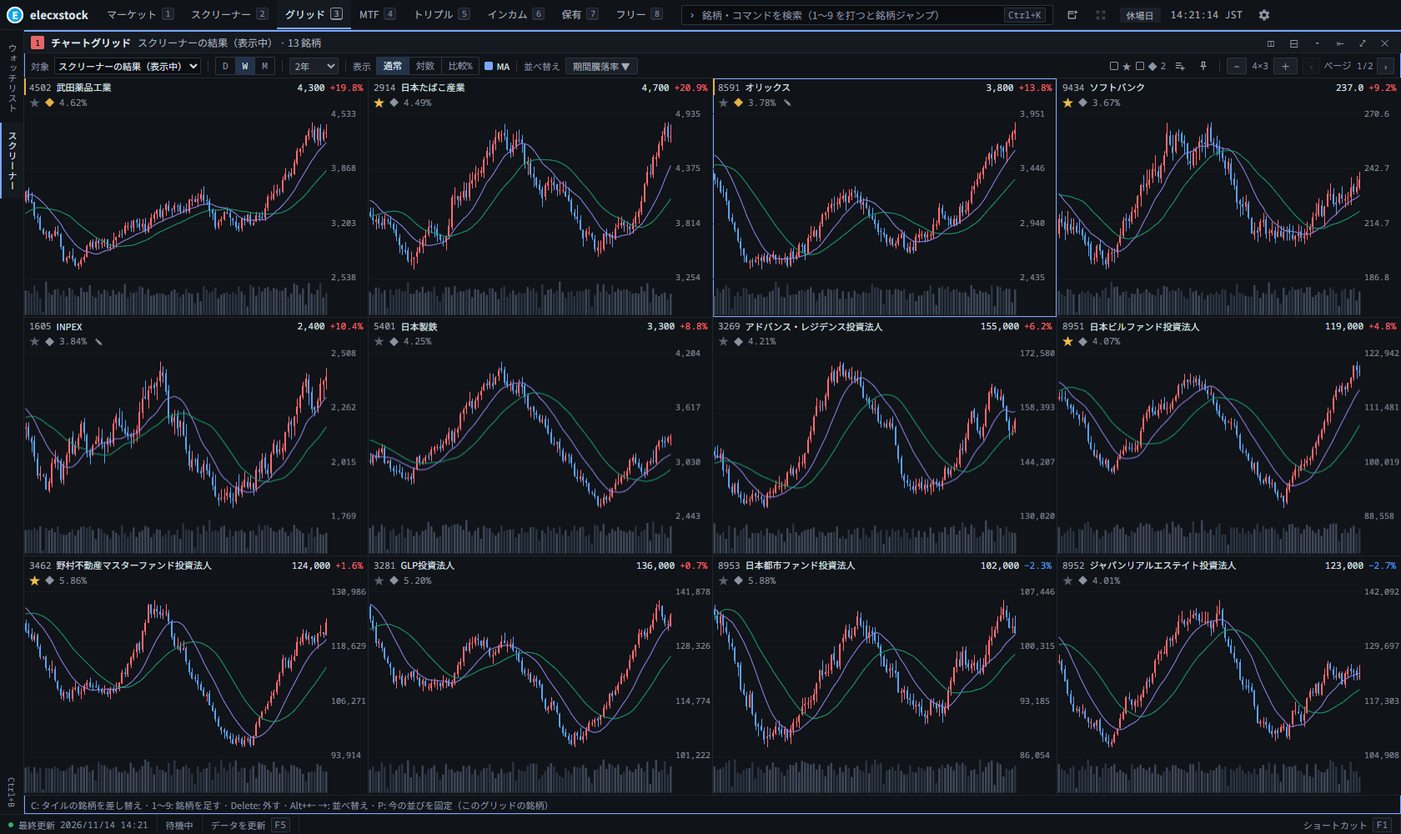
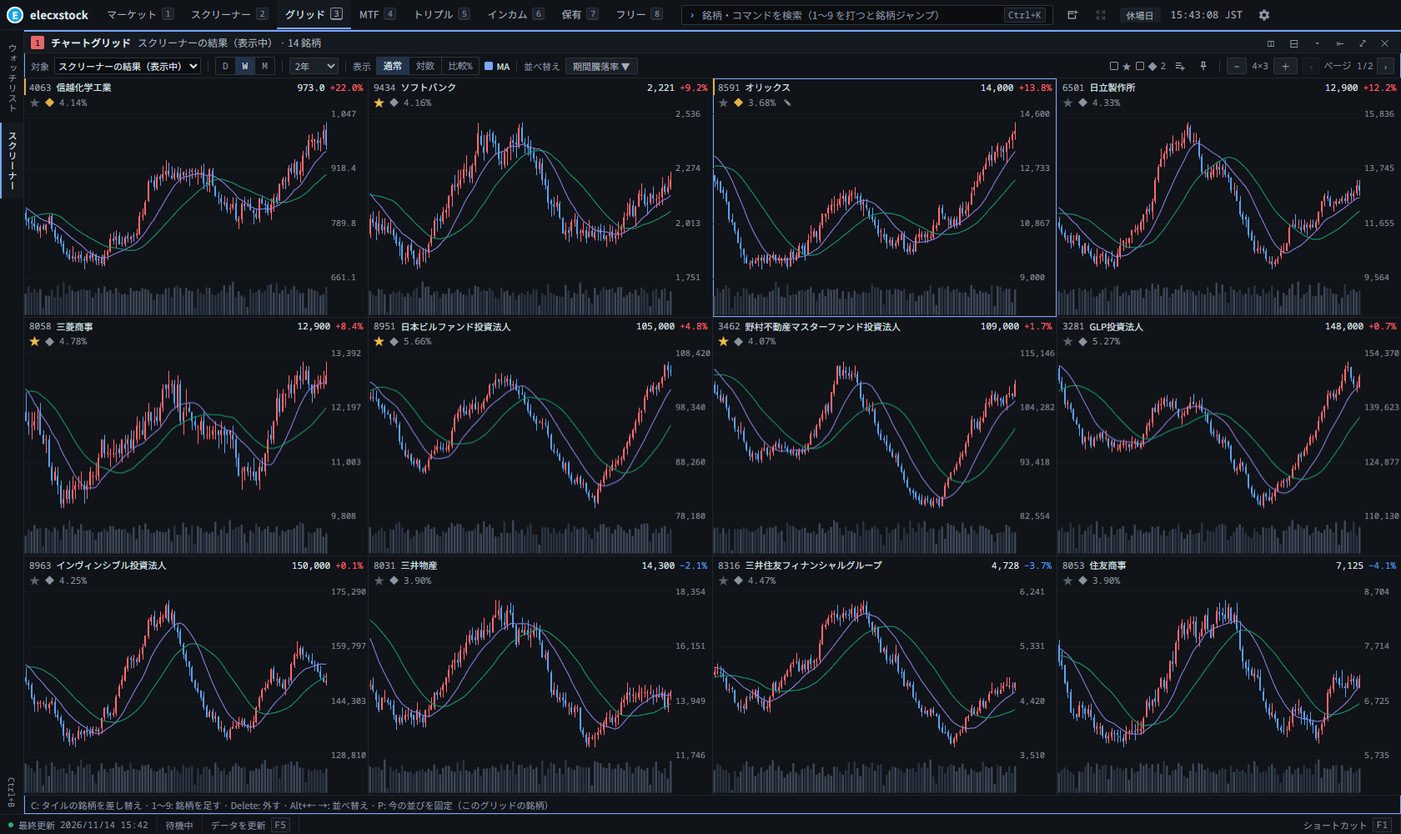
test(stub): make all demo and test values unrelated to real market data / テストとデモの値をすべて実際の市場データと無関係にする
Base prices, yields and record months in src/core/providers/stub.ts and docs/mock/mock-data.js are now random values unrelated to reality; the stub splits and the index level are fictitious too. / src/core/providers/stub.ts と docs/mock/mock-data.js の基準の株価・利回り・権利月を、実際と無関係な乱数の値にした。スタブの分割と指数の水準も架空にした。
Unit tests that referred to the old split dates and the real-looking dividend fixture now use fictitious dates and amounts. / 以前の分割の日付や実際らしい配当を使っていた単体テストを、架空の日付と金額にした。
Screenshots regenerated; README states that the values are fictitious and CLAUDE.md records the rule. / スクリーンショットを撮り直し、README に値が架空であることを書き、CLAUDE.md に決まりとして残した。

diff --git a/src/core/providers/stub.ts b/src/core/providers/stub.ts
@@ -1,5 +1,6 @@
 // テスト・スクリーンショット用のスタブ（ELECXSTOCK_PROVIDER=stub）。外部に一切接続しない（§11）。
-// 銘柄名は実在だが、価格・配当はすべて乱数の架空の値。
+// 銘柄名・コードは実在だが、値はすべて架空（実際のデータは使わない。権利関係のため）: 株価・出来高・配当は乱数で作り、
+// 基準の株価・利回り・権利月・分割の日付と比率も乱数で決めた、実際とは無関係な値。
 import type { Dividend, InstrumentKind, Market, Split } from '@shared/types'
 import { addDays, isTradingDay, jstNow, lastClosedSession } from '../calendar'
 import type { HistoryResult, Provider, ProviderQuote, RawBar, UniverseRow } from './types'
@@ -17,28 +18,28 @@ type Seed = [
   months: number[],
 ]
 const U: Seed[] = [
-  ['7203', 'トヨタ自動車', 'TOYOTA MOTOR CORPORATION', 'P', 'stock', '輸送用機器', 'Transportation Equipment', 3400, 2.9, [3, 9]],
-  ['8058', '三菱商事', 'MITSUBISHI CORPORATION', 'P', 'stock', '卸売業', 'Wholesale Trade', 5300, 2.3, [3, 9]],
-  ['8306', '三菱UFJフィナンシャル・グループ', 'Mitsubishi UFJ Financial Group,Inc.', 'P', 'stock', '銀行業', 'Banks', 3500, 2.7, [3, 9]],
-  ['8316', '三井住友フィナンシャルグループ', 'Sumitomo Mitsui Financial Group,Inc.', 'P', 'stock', '銀行業', 'Banks', 4300, 3.1, [3, 9]],
-  ['8411', 'みずほフィナンシャルグループ', 'Mizuho Financial Group,Inc.', 'P', 'stock', '銀行業', 'Banks', 5200, 2.9, [3, 9]],
-  ['9432', '日本電信電話', 'NTT,Inc.', 'P', 'stock', '情報・通信業', 'Information & Communication', 158, 3.4, [3, 9]],
-  ['9433', 'KDDI', 'KDDI CORPORATION', 'P', 'stock', '情報・通信業', 'Information & Communication', 2600, 3.0, [3, 9]],
-  ['9434', 'ソフトバンク', 'SoftBank Corp.', 'P', 'stock', '情報・通信業', 'Information & Communication', 237, 3.7, [3, 9]],
-  ['2914', '日本たばこ産業', 'JAPAN TOBACCO INC.', 'P', 'stock', '食料品', 'Foods', 4700, 4.6, [6, 12]],
-  ['8001', '伊藤忠商事', 'ITOCHU Corporation', 'P', 'stock', '卸売業', 'Wholesale Trade', 8900, 2.2, [3, 9]],
-  ['8031', '三井物産', 'MITSUI & CO.,LTD.', 'P', 'stock', '卸売業', 'Wholesale Trade', 3600, 3.0, [3, 9]],
-  ['8053', '住友商事', 'SUMITOMO CORPORATION', 'P', 'stock', '卸売業', 'Wholesale Trade', 4100, 3.3, [3, 9]],
-  ['4502', '武田薬品工業', 'Takeda Pharmaceutical Company Limited', 'P', 'stock', '医薬品', 'Pharmaceutical', 4300, 4.6, [3, 9]],
-  ['8766', '東京海上ホールディングス', 'Tokio Marine Holdings,Inc.', 'P', 'stock', '保険業', 'Insurance', 5900, 2.6, [3, 9]],
-  ['5401', '日本製鉄', 'NIPPON STEEL CORPORATION', 'P', 'stock', '鉄鋼', 'Iron & Steel', 3300, 4.2, [3, 9]],
-  ['1605', 'INPEX', 'INPEX CORPORATION', 'P', 'stock', '鉱業', 'Mining', 2400, 4.0, [6, 12]],
-  ['6501', '日立製作所', 'Hitachi,Ltd.', 'P', 'stock', '電気機器', 'Electric Appliances', 4500, 1.0, [3, 9]],
-  ['6758', 'ソニーグループ', 'Sony Group Corporation', 'P', 'stock', '電気機器', 'Electric Appliances', 3900, 0.6, [3, 9]],
-  ['7974', '任天堂', 'Nintendo Co.,Ltd.', 'P', 'stock', 'その他製品', 'Other Products', 12500, 1.2, [3, 9]],
-  ['4063', '信越化学工業', 'Shin-Etsu Chemical Co.,Ltd.', 'P', 'stock', '化学', 'Chemicals', 5200, 2.0, [3, 9]],
-  ['8591', 'オリックス', 'ORIX CORPORATION', 'P', 'stock', 'その他金融業', 'Other Financing Business', 3800, 3.8, [3, 9]],
-  ['5020', 'ENEOSホールディングス', 'ENEOS Holdings,Inc.', 'P', 'stock', '石油・石炭製品', 'Oil & Coal Products', 1050, 2.1, [3, 9]],
+  ['7203', 'トヨタ自動車', 'TOYOTA MOTOR CORPORATION', 'P', 'stock', '輸送用機器', 'Transportation Equipment', 18616, 2.7, [3, 9]],
+  ['8058', '三菱商事', 'MITSUBISHI CORPORATION', 'P', 'stock', '卸売業', 'Wholesale Trade', 12872, 4.9, [3, 9]],
+  ['8306', '三菱UFJフィナンシャル・グループ', 'Mitsubishi UFJ Financial Group,Inc.', 'P', 'stock', '銀行業', 'Banks', 19707, 2.2, [3, 9]],
+  ['8316', '三井住友フィナンシャルグループ', 'Sumitomo Mitsui Financial Group,Inc.', 'P', 'stock', '銀行業', 'Banks', 4728, 4.5, [2, 8]],
+  ['8411', 'みずほフィナンシャルグループ', 'Mizuho Financial Group,Inc.', 'P', 'stock', '銀行業', 'Banks', 704, 3.3, [4, 10]],
+  ['9432', '日本電信電話', 'NTT,Inc.', 'P', 'stock', '情報・通信業', 'Information & Communication', 4746, 3.2, [2, 8]],
+  ['9433', 'KDDI', 'KDDI CORPORATION', 'P', 'stock', '情報・通信業', 'Information & Communication', 5312, 3.5, [5, 11]],
+  ['9434', 'ソフトバンク', 'SoftBank Corp.', 'P', 'stock', '情報・通信業', 'Information & Communication', 2221, 4.2, [3, 9]],
+  ['2914', '日本たばこ産業', 'JAPAN TOBACCO INC.', 'P', 'stock', '食料品', 'Foods', 16821, 2.0, [2, 8]],
+  ['8001', '伊藤忠商事', 'ITOCHU Corporation', 'P', 'stock', '卸売業', 'Wholesale Trade', 3895, 4.0, [5, 11]],
+  ['8031', '三井物産', 'MITSUI & CO.,LTD.', 'P', 'stock', '卸売業', 'Wholesale Trade', 14268, 4.1, [6, 12]],
+  ['8053', '住友商事', 'SUMITOMO CORPORATION', 'P', 'stock', '卸売業', 'Wholesale Trade', 7125, 3.9, [3, 9]],
+  ['4502', '武田薬品工業', 'Takeda Pharmaceutical Company Limited', 'P', 'stock', '医薬品', 'Pharmaceutical', 18279, 2.5, [2, 8]],
+  ['8766', '東京海上ホールディングス', 'Tokio Marine Holdings,Inc.', 'P', 'stock', '保険業', 'Insurance', 7755, 1.3, [3, 9]],
+  ['5401', '日本製鉄', 'NIPPON STEEL CORPORATION', 'P', 'stock', '鉄鋼', 'Iron & Steel', 8416, 2.9, [3, 9]],
+  ['1605', 'INPEX', 'INPEX CORPORATION', 'P', 'stock', '鉱業', 'Mining', 476, 2.3, [5, 11]],
+  ['6501', '日立製作所', 'Hitachi,Ltd.', 'P', 'stock', '電気機器', 'Electric Appliances', 12860, 4.4, [3, 9]],
+  ['6758', 'ソニーグループ', 'Sony Group Corporation', 'P', 'stock', '電気機器', 'Electric Appliances', 6028, 2.5, [1, 7]],
+  ['7974', '任天堂', 'Nintendo Co.,Ltd.', 'P', 'stock', 'その他製品', 'Other Products', 10754, 1.9, [3, 9]],
+  ['4063', '信越化学工業', 'Shin-Etsu Chemical Co.,Ltd.', 'P', 'stock', '化学', 'Chemicals', 973, 4.1, [3, 9]],
+  ['8591', 'オリックス', 'ORIX CORPORATION', 'P', 'stock', 'その他金融業', 'Other Financing Business', 14009, 3.7, [1, 7]],
+  ['5020', 'ENEOSホールディングス', 'ENEOS Holdings,Inc.', 'P', 'stock', '石油・石炭製品', 'Oil & Coal Products', 3984, 3.6, [6, 12]],
   [
     '94345',
     'ソフトバンク第1回社債型種類株式',
@@ -47,20 +48,20 @@ const U: Seed[] = [
     'pref',
     '情報・通信業',
     'Information & Communication',
-    3790,
-    2.6,
-    [3, 9],
+    4442,
+    2.8,
+    [2, 8],
   ],
-  ['130A', 'Veritas In Silico', 'Veritas In Silico Inc.', 'G', 'stock', '医薬品', 'Pharmaceutical', 255, 0, []],
-  ['8951', '日本ビルファンド投資法人', 'Nippon Building Fund Inc.', 'R', 'reit', '', '', 119000, 4.2, [6, 12]],
-  ['8952', 'ジャパンリアルエステイト投資法人', 'Japan Real Estate Investment Corporation', 'R', 'reit', '', '', 123000, 4.1, [3, 9]],
-  ['3462', '野村不動産マスターファンド投資法人', 'Nomura Real Estate Master Fund,Inc.', 'R', 'reit', '', '', 124000, 5.9, [2, 8]],
-  ['3283', '日本プロロジスリート投資法人', 'Nippon Prologis REIT,Inc.', 'R', 'reit', '', '', 86000, 4.5, [5, 11]],
-  ['8953', '日本都市ファンド投資法人', 'Japan Metropolitan Fund Investment Corporation', 'R', 'reit', '', '', 102000, 5.9, [2, 8]],
-  ['3269', 'アドバンス・レジデンス投資法人', 'Advance Residence Investment Corporation', 'R', 'reit', '', '', 155000, 4.2, [1, 7]],
-  ['8963', 'インヴィンシブル投資法人', 'Invincible Investment Corporation', 'R', 'reit', '', '', 66000, 6.2, [6, 12]],
-  ['3281', 'GLP投資法人', 'GLP J-REIT', 'R', 'reit', '', '', 136000, 5.2, [2, 8]],
-  ['1306', 'NEXT FUNDS TOPIX連動型上場投信', 'NEXT FUNDS TOPIX Exchange Traded Fund', 'E', 'etf', '', '', 414, 1.9, [7]],
+  ['130A', 'Veritas In Silico', 'Veritas In Silico Inc.', 'G', 'stock', '医薬品', 'Pharmaceutical', 927, 0, []],
+  ['8951', '日本ビルファンド投資法人', 'Nippon Building Fund Inc.', 'R', 'reit', '', '', 105000, 5.7, [4, 10]],
+  ['8952', 'ジャパンリアルエステイト投資法人', 'Japan Real Estate Investment Corporation', 'R', 'reit', '', '', 52000, 5.4, [5, 11]],
+  ['3462', '野村不動産マスターファンド投資法人', 'Nomura Real Estate Master Fund,Inc.', 'R', 'reit', '', '', 109000, 4.1, [1, 7]],
+  ['3283', '日本プロロジスリート投資法人', 'Nippon Prologis REIT,Inc.', 'R', 'reit', '', '', 109000, 4.3, [5, 11]],
+  ['8953', '日本都市ファンド投資法人', 'Japan Metropolitan Fund Investment Corporation', 'R', 'reit', '', '', 54000, 5.8, [5, 11]],
+  ['3269', 'アドバンス・レジデンス投資法人', 'Advance Residence Investment Corporation', 'R', 'reit', '', '', 58000, 4.6, [3, 9]],
+  ['8963', 'インヴィンシブル投資法人', 'Invincible Investment Corporation', 'R', 'reit', '', '', 150000, 4.3, [3, 9]],
+  ['3281', 'GLP投資法人', 'GLP J-REIT', 'R', 'reit', '', '', 148000, 5.4, [5, 11]],
+  ['1306', 'NEXT FUNDS TOPIX連動型上場投信', 'NEXT FUNDS TOPIX Exchange Traded Fund', 'E', 'etf', '', '', 3107, 2.6, [3]],
   [
     '9282',
     'いちごグリーンインフラ投資法人',
@@ -69,9 +70,9 @@ const U: Seed[] = [
     'other',
     '',
     '',
-    52000,
-    6.0,
-    [6, 12],
+    89000,
+    4.9,
+    [5, 11],
   ],
 ]
 const BY = new Map(U.map((s) => [s[0], s]))
@@ -132,7 +133,8 @@ function series(code: string) {
       }
     }
   }
-  const splits: Split[] = code === '7203' ? [{ date: '2021-09-29', ratio: 5 }] : code === '9434' ? [{ date: '2024-09-27', ratio: 10 }] : []
+  // 分割の検知・調整を試すための架空の分割（日付・比率は実際とは無関係）
+  const splits: Split[] = code === '7203' ? [{ date: '2023-04-26', ratio: 3 }] : code === '9434' ? [{ date: '2024-06-26', ratio: 4 }] : []
   const out = { bars, dividends, splits }
   cache.set(code, out)
   return out
@@ -222,7 +224,7 @@ function idx(from: string, interval: '1d' | '1mo'): HistoryResult {
     const end = lastClosedSession()
     const days: string[] = []
     for (let d = '2000-01-04'; d <= end; d = addDays(d, 1)) if (isTradingDay(d)) days.push(d)
-    let c = 61000
+    let c = 38000 // 架空の水準
     const arr: RawBar[] = []
     for (let i = days.length - 1; i >= 0; i--) {
       const o = c * (1 + (r() - 0.5) * 0.01)

diff --git a/docs/mock/mock-data.js b/docs/mock/mock-data.js
@@ -1,41 +1,41 @@
-// モック用の架空データ。銘柄名は実在だが、価格・配当・指標はすべて乱数で作った架空の値。
+// モック用の架空データ。銘柄名・コードは実在だが、価格・配当・指標はすべて乱数で作った架空の値（基準の株価・利回り・権利月も実際とは無関係）。
 'use strict'
 window.MOCK = (() => {
   // code, 日本語名, 英語名, 市場, 業種(ja), 業種(en), 種別, 基準価格, 利回り目安(%), 配当月
   const U = [
-    ['7203', 'トヨタ自動車', 'Toyota Motor', 'P', '輸送用機器', 'Transport Equip.', 'stock', 3400, 2.9, [3, 9]],
-    ['8058', '三菱商事', 'Mitsubishi Corp.', 'P', '卸売業', 'Wholesale', 'stock', 5300, 2.3, [3, 9]],
-    ['8306', '三菱ＵＦＪフィナンシャル・グループ', 'Mitsubishi UFJ FG', 'P', '銀行業', 'Banks', 'stock', 3500, 2.7, [3, 9]],
-    ['8316', '三井住友フィナンシャルグループ', 'Sumitomo Mitsui FG', 'P', '銀行業', 'Banks', 'stock', 4300, 3.1, [3, 9]],
-    ['8411', 'みずほフィナンシャルグループ', 'Mizuho FG', 'P', '銀行業', 'Banks', 'stock', 5200, 2.9, [3, 9]],
-    ['9432', '日本電信電話', 'NTT', 'P', '情報・通信業', 'Info. & Comm.', 'stock', 158, 3.4, [3, 9]],
-    ['9433', 'ＫＤＤＩ', 'KDDI', 'P', '情報・通信業', 'Info. & Comm.', 'stock', 2600, 3.0, [3, 9]],
-    ['9434', 'ソフトバンク', 'SoftBank Corp.', 'P', '情報・通信業', 'Info. & Comm.', 'stock', 237, 3.7, [3, 9]],
-    ['2914', '日本たばこ産業', 'Japan Tobacco', 'P', '食料品', 'Foods', 'stock', 4700, 4.6, [6, 12]],
-    ['8001', '伊藤忠商事', 'ITOCHU', 'P', '卸売業', 'Wholesale', 'stock', 8900, 2.2, [3, 9]],
-    ['8031', '三井物産', 'Mitsui & Co.', 'P', '卸売業', 'Wholesale', 'stock', 3600, 3.0, [3, 9]],
-    ['4502', '武田薬品工業', 'Takeda Pharmaceutical', 'P', '医薬品', 'Pharmaceutical', 'stock', 4300, 4.6, [3, 9]],
-    ['8766', '東京海上ホールディングス', 'Tokio Marine HD', 'P', '保険業', 'Insurance', 'stock', 5900, 2.6, [3, 9]],
-    ['5401', '日本製鉄', 'Nippon Steel', 'P', '鉄鋼', 'Iron & Steel', 'stock', 3300, 4.2, [3, 9]],
-    ['1605', 'ＩＮＰＥＸ', 'INPEX', 'P', '鉱業', 'Mining', 'stock', 2400, 4.0, [6, 12]],
-    ['6501', '日立製作所', 'Hitachi', 'P', '電気機器', 'Electric Appliances', 'stock', 4500, 1.0, [3, 9]],
-    ['6758', 'ソニーグループ', 'Sony Group', 'P', '電気機器', 'Electric Appliances', 'stock', 3900, 0.6, [3, 9]],
-    ['7974', '任天堂', 'Nintendo', 'P', 'その他製品', 'Other Products', 'stock', 12500, 1.2, [3, 9]],
-    ['4063', '信越化学工業', 'Shin-Etsu Chemical', 'P', '化学', 'Chemicals', 'stock', 5200, 2.0, [3, 9]],
-    ['8053', '住友商事', 'Sumitomo Corp.', 'P', '卸売業', 'Wholesale', 'stock', 4100, 3.3, [3, 9]],
-    ['5020', 'ＥＮＥＯＳホールディングス', 'ENEOS HD', 'P', '石油・石炭製品', 'Oil & Coal', 'stock', 1050, 2.1, [3, 9]],
-    ['8591', 'オリックス', 'ORIX', 'P', 'その他金融業', 'Other Financing', 'stock', 3800, 3.8, [3, 9]],
-    ['94345', 'ソフトバンク第１回社債型種類株式', 'SoftBank Corp. Bond-type Class Shares 1', 'P', '情報・通信業', 'Info. & Comm.', 'stock', 3790, 2.6, [3, 9]],
-    ['130A', 'Ｖｅｒｉｔａｓ　Ｉｎ　Ｓｉｌｉｃｏ', 'Veritas In Silico', 'G', '医薬品', 'Pharmaceutical', 'stock', 255, 0, []],
-    ['8951', '日本ビルファンド投資法人', 'Nippon Building Fund', 'R', 'REIT', 'REIT', 'reit', 119000, 4.2, [6, 12]],
-    ['8952', 'ジャパンリアルエステイト投資法人', 'Japan Real Estate Inv.', 'R', 'REIT', 'REIT', 'reit', 123000, 4.1, [3, 9]],
-    ['3462', '野村不動産マスターファンド投資法人', 'Nomura RE Master Fund', 'R', 'REIT', 'REIT', 'reit', 124000, 5.9, [2, 8]],
-    ['3283', '日本プロロジスリート投資法人', 'Nippon Prologis REIT', 'R', 'REIT', 'REIT', 'reit', 86000, 4.5, [5, 11]],
-    ['8953', '日本都市ファンド投資法人', 'Japan Metropolitan Fund', 'R', 'REIT', 'REIT', 'reit', 102000, 5.9, [2, 8]],
-    ['3269', 'アドバンス・レジデンス投資法人', 'Advance Residence Inv.', 'R', 'REIT', 'REIT', 'reit', 155000, 4.2, [1, 7]],
-    ['8963', 'インヴィンシブル投資法人', 'Invincible Investment', 'R', 'REIT', 'REIT', 'reit', 66000, 6.2, [6, 12]],
-    ['3281', 'ＧＬＰ投資法人', 'GLP J-REIT', 'R', 'REIT', 'REIT', 'reit', 136000, 5.2, [2, 8]],
-    ['1306', 'ＴＯＰＩＸ連動型上場投資信託', 'NEXT FUNDS TOPIX ETF', 'E', 'ETF', 'ETF', 'etf', 414, 1.9, [7]],
+    ['7203', 'トヨタ自動車', 'Toyota Motor', 'P', '輸送用機器', 'Transport Equip.', 'stock', 18616, 2.7, [3, 9]],
+    ['8058', '三菱商事', 'Mitsubishi Corp.', 'P', '卸売業', 'Wholesale', 'stock', 12872, 4.9, [3, 9]],
+    ['8306', '三菱ＵＦＪフィナンシャル・グループ', 'Mitsubishi UFJ FG', 'P', '銀行業', 'Banks', 'stock', 19707, 2.2, [3, 9]],
+    ['8316', '三井住友フィナンシャルグループ', 'Sumitomo Mitsui FG', 'P', '銀行業', 'Banks', 'stock', 4728, 4.5, [2, 8]],
+    ['8411', 'みずほフィナンシャルグループ', 'Mizuho FG', 'P', '銀行業', 'Banks', 'stock', 704, 3.3, [4, 10]],
+    ['9432', '日本電信電話', 'NTT', 'P', '情報・通信業', 'Info. & Comm.', 'stock', 4746, 3.2, [2, 8]],
+    ['9433', 'ＫＤＤＩ', 'KDDI', 'P', '情報・通信業', 'Info. & Comm.', 'stock', 5312, 3.5, [5, 11]],
+    ['9434', 'ソフトバンク', 'SoftBank Corp.', 'P', '情報・通信業', 'Info. & Comm.', 'stock', 2221, 4.2, [3, 9]],
+    ['2914', '日本たばこ産業', 'Japan Tobacco', 'P', '食料品', 'Foods', 'stock', 16821, 2.0, [2, 8]],
+    ['8001', '伊藤忠商事', 'ITOCHU', 'P', '卸売業', 'Wholesale', 'stock', 3895, 4.0, [5, 11]],
+    ['8031', '三井物産', 'Mitsui & Co.', 'P', '卸売業', 'Wholesale', 'stock', 14268, 4.1, [6, 12]],
+    ['4502', '武田薬品工業', 'Takeda Pharmaceutical', 'P', '医薬品', 'Pharmaceutical', 'stock', 18279, 2.5, [2, 8]],
+    ['8766', '東京海上ホールディングス', 'Tokio Marine HD', 'P', '保険業', 'Insurance', 'stock', 7755, 1.3, [3, 9]],
+    ['5401', '日本製鉄', 'Nippon Steel', 'P', '鉄鋼', 'Iron & Steel', 'stock', 8416, 2.9, [3, 9]],
+    ['1605', 'ＩＮＰＥＸ', 'INPEX', 'P', '鉱業', 'Mining', 'stock', 476, 2.3, [5, 11]],
+    ['6501', '日立製作所', 'Hitachi', 'P', '電気機器', 'Electric Appliances', 'stock', 12860, 4.4, [3, 9]],
+    ['6758', 'ソニーグループ', 'Sony Group', 'P', '電気機器', 'Electric Appliances', 'stock', 6028, 2.5, [1, 7]],
+    ['7974', '任天堂', 'Nintendo', 'P', 'その他製品', 'Other Products', 'stock', 10754, 1.9, [3, 9]],
+    ['4063', '信越化学工業', 'Shin-Etsu Chemical', 'P', '化学', 'Chemicals', 'stock', 973, 4.1, [3, 9]],
+    ['8053', '住友商事', 'Sumitomo Corp.', 'P', '卸売業', 'Wholesale', 'stock', 7125, 3.9, [3, 9]],
+    ['5020', 'ＥＮＥＯＳホールディングス', 'ENEOS HD', 'P', '石油・石炭製品', 'Oil & Coal', 'stock', 3984, 3.6, [6, 12]],
+    ['8591', 'オリックス', 'ORIX', 'P', 'その他金融業', 'Other Financing', 'stock', 14009, 3.7, [1, 7]],
+    ['94345', 'ソフトバンク第１回社債型種類株式', 'SoftBank Corp. Bond-type Class Shares 1', 'P', '情報・通信業', 'Info. & Comm.', 'stock', 4442, 2.8, [2, 8]],
+    ['130A', 'Ｖｅｒｉｔａｓ　Ｉｎ　Ｓｉｌｉｃｏ', 'Veritas In Silico', 'G', '医薬品', 'Pharmaceutical', 'stock', 927, 0, []],
+    ['8951', '日本ビルファンド投資法人', 'Nippon Building Fund', 'R', 'REIT', 'REIT', 'reit', 105000, 5.7, [4, 10]],
+    ['8952', 'ジャパンリアルエステイト投資法人', 'Japan Real Estate Inv.', 'R', 'REIT', 'REIT', 'reit', 52000, 5.4, [5, 11]],
+    ['3462', '野村不動産マスターファンド投資法人', 'Nomura RE Master Fund', 'R', 'REIT', 'REIT', 'reit', 109000, 4.1, [1, 7]],
+    ['3283', '日本プロロジスリート投資法人', 'Nippon Prologis REIT', 'R', 'REIT', 'REIT', 'reit', 109000, 4.3, [5, 11]],
+    ['8953', '日本都市ファンド投資法人', 'Japan Metropolitan Fund', 'R', 'REIT', 'REIT', 'reit', 54000, 5.8, [5, 11]],
+    ['3269', 'アドバンス・レジデンス投資法人', 'Advance Residence Inv.', 'R', 'REIT', 'REIT', 'reit', 58000, 4.6, [3, 9]],
+    ['8963', 'インヴィンシブル投資法人', 'Invincible Investment', 'R', 'REIT', 'REIT', 'reit', 150000, 4.3, [3, 9]],
+    ['3281', 'ＧＬＰ投資法人', 'GLP J-REIT', 'R', 'REIT', 'REIT', 'reit', 148000, 5.4, [5, 11]],
+    ['1306', 'ＴＯＰＩＸ連動型上場投資信託', 'NEXT FUNDS TOPIX ETF', 'E', 'ETF', 'ETF', 'etf', 3107, 2.6, [3]],
   ]
   const instruments = U.map(([code, ja, en, mkt, secJa, secEn, type, base, yld, months]) => ({
     code, ja: ja.normalize('NFKC'), en, mkt, secJa, secEn, type, base, yld, months,

diff --git a/tests/unit/core.test.ts b/tests/unit/core.test.ts
@@ -55,8 +55,10 @@ describe('Core（スタブのプロバイダで端から端まで）', () => {
     expect(m.monthlyUntil).toBeGreaterThan(0)
     const un = await svc.call('bars.get', { id: 'JP:7203', tf: 'D', adjustment: 'unadjusted' })
     const sp = await svc.call('bars.get', { id: 'JP:7203', tf: 'D' })
-    const i = sp.time.findIndex((t) => t < '2021-09-29')
-    if (i >= 0) expect(un.close[i]! / sp.close[i]!).toBeCloseTo(5)
+    // スタブの 7203 は 2023-04-26 に 1:3 の架空の分割（日足の期間の中）
+    const i = sp.time.findIndex((t) => t < '2023-04-26')
+    expect(i).toBeGreaterThanOrEqual(0)
+    expect(un.close[i]! / sp.close[i]!).toBeCloseTo(3)
   })
 
   it('スクリーニング: 既定の条件・無効な条件・欠損', async () => {
@@ -107,9 +109,9 @@ describe('Core（スタブのプロバイダで端から端まで）', () => {
         },
       ],
     })
-    // 取引の後の 10:1 分割（スタブの 9434 は 2024-09-27）で、数量 × 10・単価 ÷ 10
-    expect(saved[0]!.quantity).toBe(1000)
-    expect(saved[0]!.avgCost).toBe(200)
+    // 取引の後の 1:4 分割（スタブの 9434 は 2024-06-26 の架空の分割）で、数量 × 4・単価 ÷ 4
+    expect(saved[0]!.quantity).toBe(400)
+    expect(saved[0]!.avgCost).toBe(500)
     const json = await svc.call('portfolio.export', {})
     expect(JSON.parse(json).format).toBe('elecxstock.holdings')
     const incoming = JSON.stringify({

diff --git a/tests/unit/metrics.test.ts b/tests/unit/metrics.test.ts
@@ -16,15 +16,15 @@ function days(from: string, to: string, f: (i: number) => number): DayBar[] {
 
 describe('利回りの基準合わせ（FR-I2）', () => {
   it('過去12か月以内に 10:1 分割した銘柄でも、保存値（分割調整済み）どうしで割れば揃う', () => {
-    // 評価日を固定: 2024-10-31（9434 の 10:1 分割 2024-09-27 の直後）
+    // 評価日を固定: 2024-10-31（架空の 10:1 分割 2024-09-20 の直後。値はすべて架空）
     const bars = days('2022-01-04', '2024-10-31', () => 200)
     const dividends = [
-      { date: '2024-03-28', amount: 4.3 },
-      { date: '2024-09-27', amount: 4.3 },
-    ] // 分割調整済み（43 円 → 4.3 円）
-    const m = computeMetrics('JP:9434', bars, dividends, [{ date: '2024-09-27', ratio: 10 }], null, '2024-10-31')
-    expect(m.div12).toBeCloseTo(8.6)
-    expect(m.yieldTrailing).toBeCloseTo(4.3)
+      { date: '2024-03-21', amount: 3.5 },
+      { date: '2024-09-20', amount: 3.5 },
+    ] // 分割調整済み（35 円 → 3.5 円）
+    const m = computeMetrics('JP:9434', bars, dividends, [{ date: '2024-09-20', ratio: 10 }], null, '2024-10-31')
+    expect(m.div12).toBeCloseTo(7)
+    expect(m.yieldTrailing).toBeCloseTo(3.5)
   })
   it('上場12か月未満は期間不足（欠損）', () => {
     const m = computeMetrics(

diff --git a/tests/e2e/review-v005.spec.ts b/tests/e2e/review-v005.spec.ts
@@ -107,9 +107,9 @@ test('保有のフォーム: 銘柄の候補を出しても下の欄が動かな
 test('配当カレンダー: 9 銘柄以上の月も全部を選べる', async () => {
   const { app, page } = await launch()
   await ready(page)
-  // お気に入りに 3 月に権利が確定する 14 銘柄を足す（カレンダーはすべてのウォッチリストの銘柄を並べる）
+  // お気に入りに 3 月に権利が確定する 10 銘柄を足す（スタブの架空の権利月）（カレンダーはすべてのウォッチリストの銘柄を並べる）
   await keys(page, 'Control+Shift+Digit4')
-  for (const c of ['7203', '8058', '8306', '8316', '8411', '9432', '9433', '9434', '8001', '8031', '8053', '4502', '8766', '5401']) {
+  for (const c of ['7203', '8058', '8306', '9434', '8053', '8766', '5401', '6501', '7974', '4063']) {
     await keys(page, ...[...c].map((d) => `Digit${d}`))
     await expect(page.locator('.dialog.jump')).toContainText(c)
     await keys(page, 'Enter', 'Control+d')

diff --git a/tests/unit/holdings.test.ts b/tests/unit/holdings.test.ts
@@ -14,7 +14,7 @@ describe('fromLots（移動平均法、FR-H5）', () => {
     expect(r.avgCost).toBeCloseTo((100_000 + 100 + 120_000) / 200, 4)
   })
   it('取引の後の分割は、数量 × 係数・単価 ÷ 係数で今の基準にそろえる', () => {
-    const r = fromLots([{ date: '2024-03-01', side: 'buy', quantity: 10, price: 3000 }], [{ date: '2024-09-27', ratio: 10 }])
+    const r = fromLots([{ date: '2024-03-01', side: 'buy', quantity: 10, price: 3000 }], [{ date: '2024-09-20', ratio: 10 }])
     expect(r.quantity).toBe(100)
     expect(r.avgCost).toBe(300)
   })

diff --git a/CLAUDE.md b/CLAUDE.md
@@ -82,6 +82,10 @@ npm run gen:icon       # build/icon.svg から PNG・ICO
 
 ## テスト
 
+- **テスト・デモ・スクリーンショットのデータはすべて架空**（実際の市場データは権利関係があるため使わない・コミットしない）。
+  スタブ（`src/core/providers/stub.ts`）とモック（`docs/mock/mock-data.js`）は、銘柄名とコードだけ実在で、株価・利回り・配当・権利月・分割は
+  乱数や実際と無関係な値にする。契約テスト（`LIVE=1`）で取った値も保存しない。
+
 - 新しい計算・判定には単体テストを書く（評価日を固定したフィクスチャで。例: `tests/unit/metrics.test.ts`）。
 - 見た目の回帰（`tests/e2e/visual.spec.ts`）はダイアログの要素を基準画像と比べる。意図して見た目を変えたら
   `npx playwright test visual --update-snapshots` で基準画像を作り直し、差分を目で確かめてからコミットする。

diff --git a/README.md b/README.md
@@ -52,7 +52,7 @@
 
 2 枚のモニタに並べたところ（左: 1 枚目、右: フリー 2。リンク 1 のチャートが 1 枚目で選んだ銘柄を追う）
 
-（スクリーンショットはテスト用の架空のデータです）
+（スクリーンショットの株価・利回り・配当などの値は、テスト用に乱数で作った架空のものです。銘柄名とコードは実在しますが、表示の値は実際の値とは関係ありません。実際のデータは使っていません）
 
 ### インストール
 
@@ -139,7 +139,7 @@ Everything can be done with the keyboard alone.
 
 ![Grid (English)](docs/screenshots/grid-en.png)
 
-(Screenshots use fictitious test data.)
+(Prices, yields, dividends and other values in the screenshots are fictitious, generated at random for testing. Company names and codes are real, but the values shown have nothing to do with actual market data. No real market data is used.)
 
 ### Install
 
